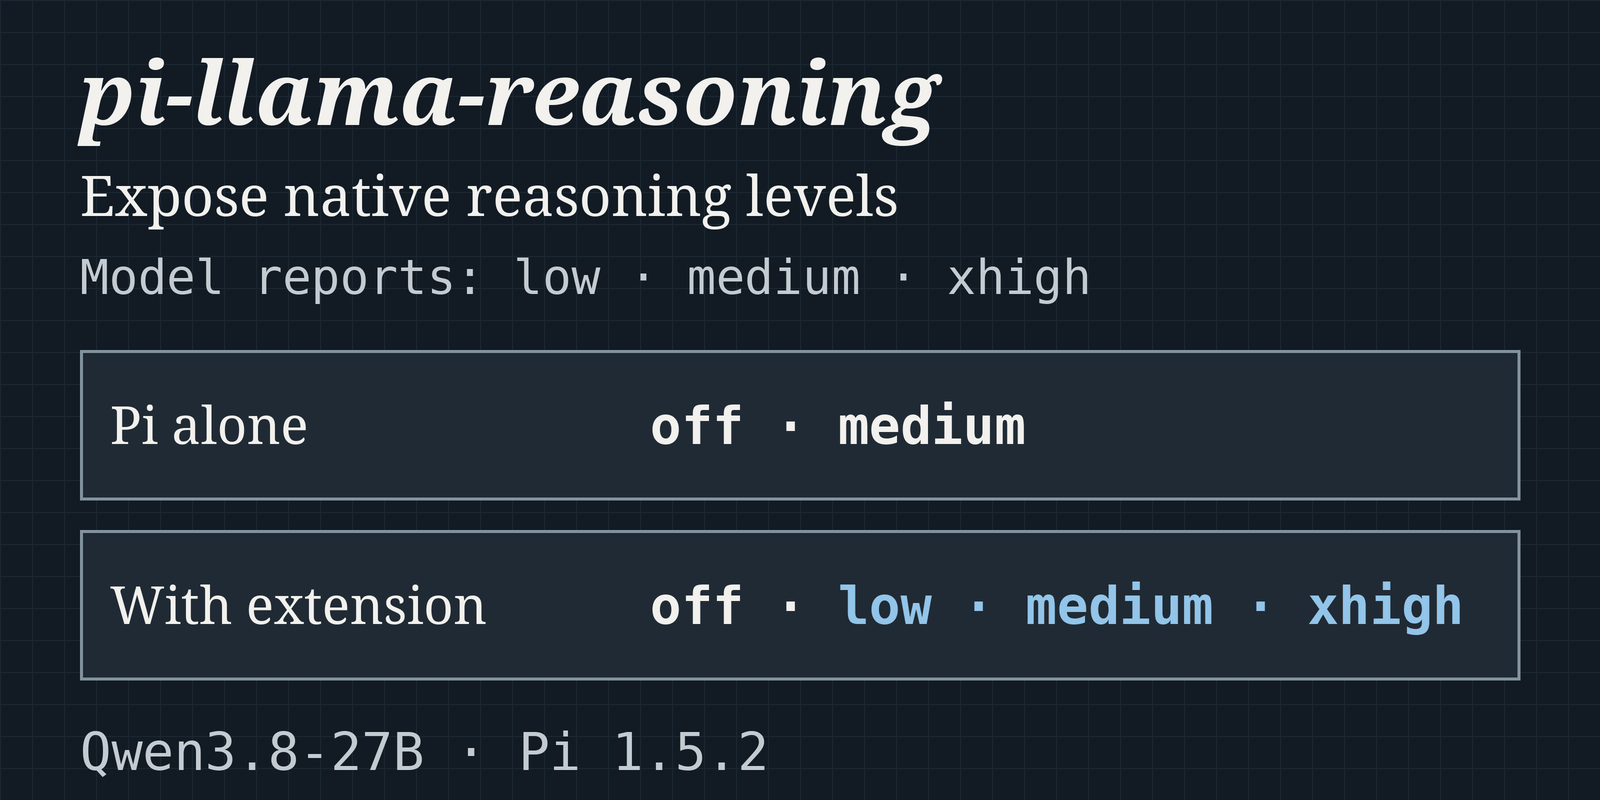
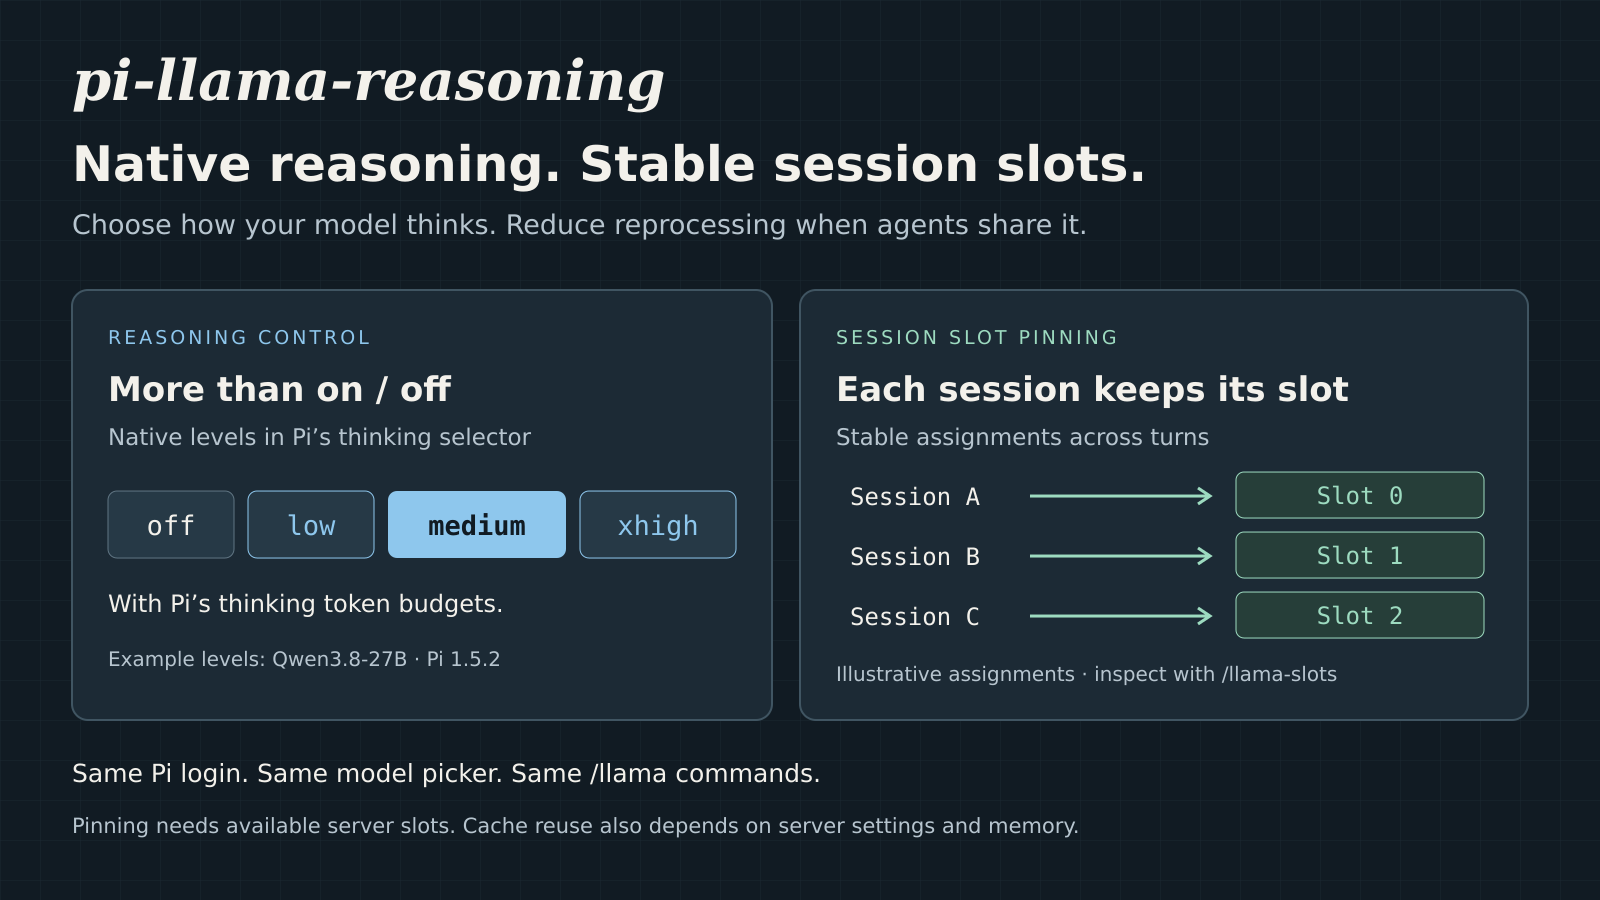
docs: showcase reasoning controls and session slot pinning

diff --git a/README.md b/README.md
@@ -7,13 +7,17 @@
   <a href="https://pi.dev/packages/pi-llama-reasoning"><img src="https://img.shields.io/badge/pi-package-1a1a2e" alt="pi package"></a>
 </p>
 
-Choose your llama.cpp model’s reasoning levels directly in [Pi](https://pi.dev)—not just thinking on/off.
+Native reasoning controls and automatic session slot pinning for llama.cpp in [Pi](https://pi.dev).
 
-- Choose supported levels such as `low`, `medium`, and `xhigh` with Pi’s thinking token budgets.
-- Keep Pi’s usual login, model picker, and `/llama` commands.
-- Keep sessions on separate server slots when available to reduce repeated processing when agents share one model.
+![Native reasoning levels in Pi’s thinking selector, plus automatic session-to-slot assignments across turns. Example levels: off, low, medium, xhigh. Slot assignments are illustrative; cache reuse depends on server settings and memory.](https://raw.githubusercontent.com/Ryu-CZ/pi-llama-reasoning/main/media/preview.png)
 
-![Qwen3.8-27B reasoning levels in Pi 1.5.2: Pi alone offers off and medium; with this extension, the selector offers off, low, medium, and xhigh.](https://raw.githubusercontent.com/Ryu-CZ/pi-llama-reasoning/main/media/preview.png)
+## Why use it?
+
+**Choose how your model reasons.** Thinking on/off does not expose every level a model supports. Select native levels such as `low`, `medium`, and `xhigh` through Pi’s usual thinking selector, with Pi’s thinking token budgets.
+
+**Reduce reprocessing between agents.** Sessions sharing one model can displace each other’s cached conversations. Automatic slot pinning keeps participating sessions on separate available slots across turns, helping reuse their conversation prefixes instead of processing them again. Cache retention still depends on server settings and available memory.
+
+Keep Pi’s usual login, model picker, and `/llama` commands. Your explicit reasoning, budget, sampling, slot, and cache settings are preserved.
 
 ## Install
 
